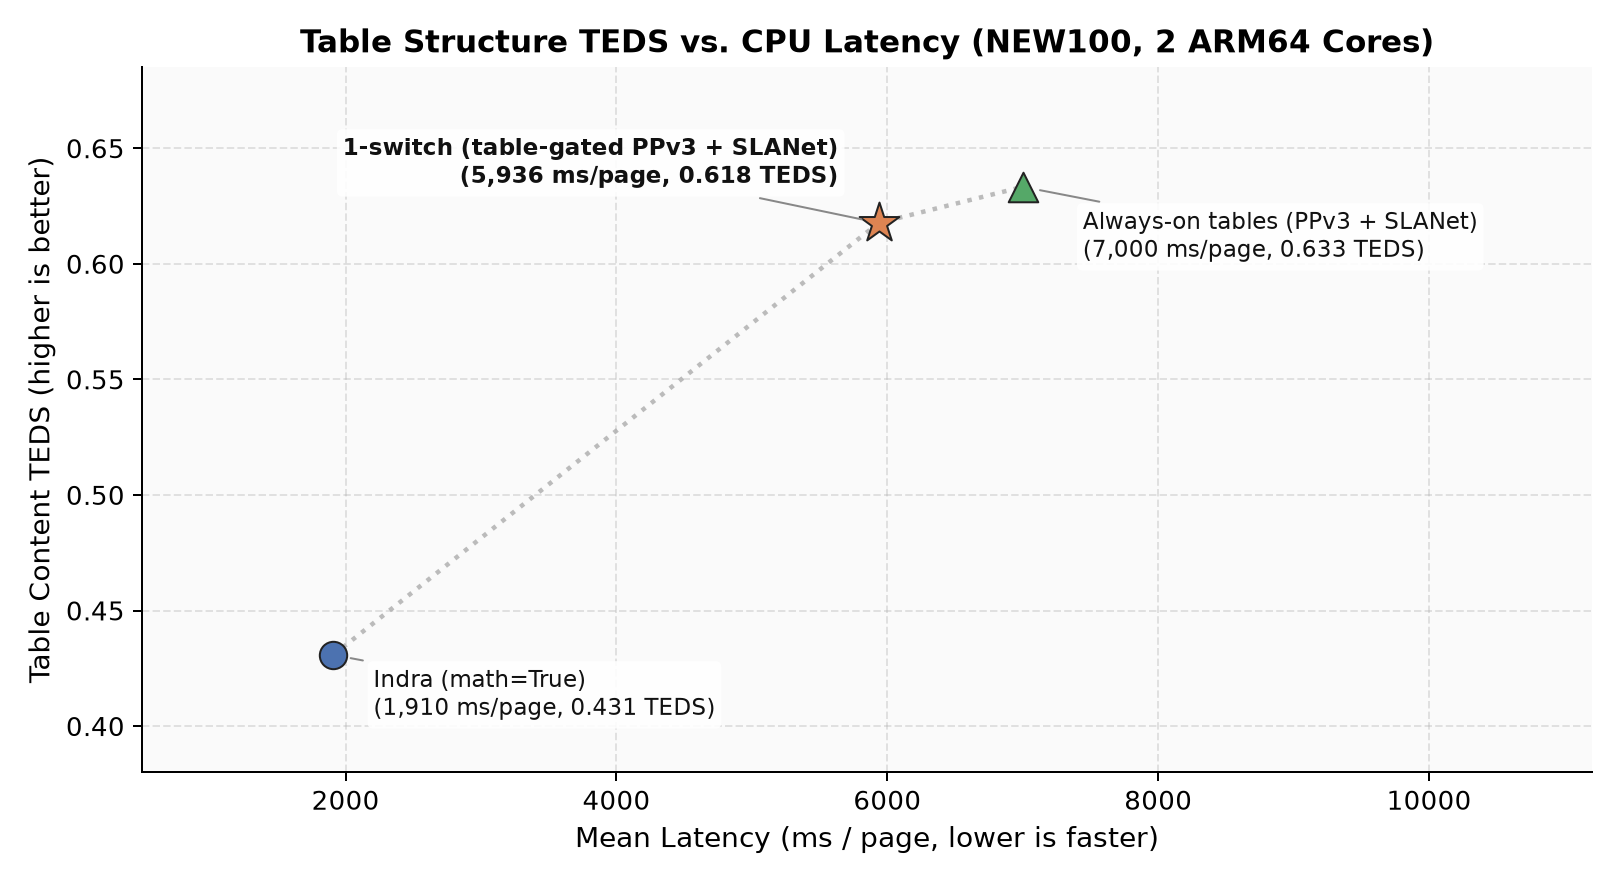
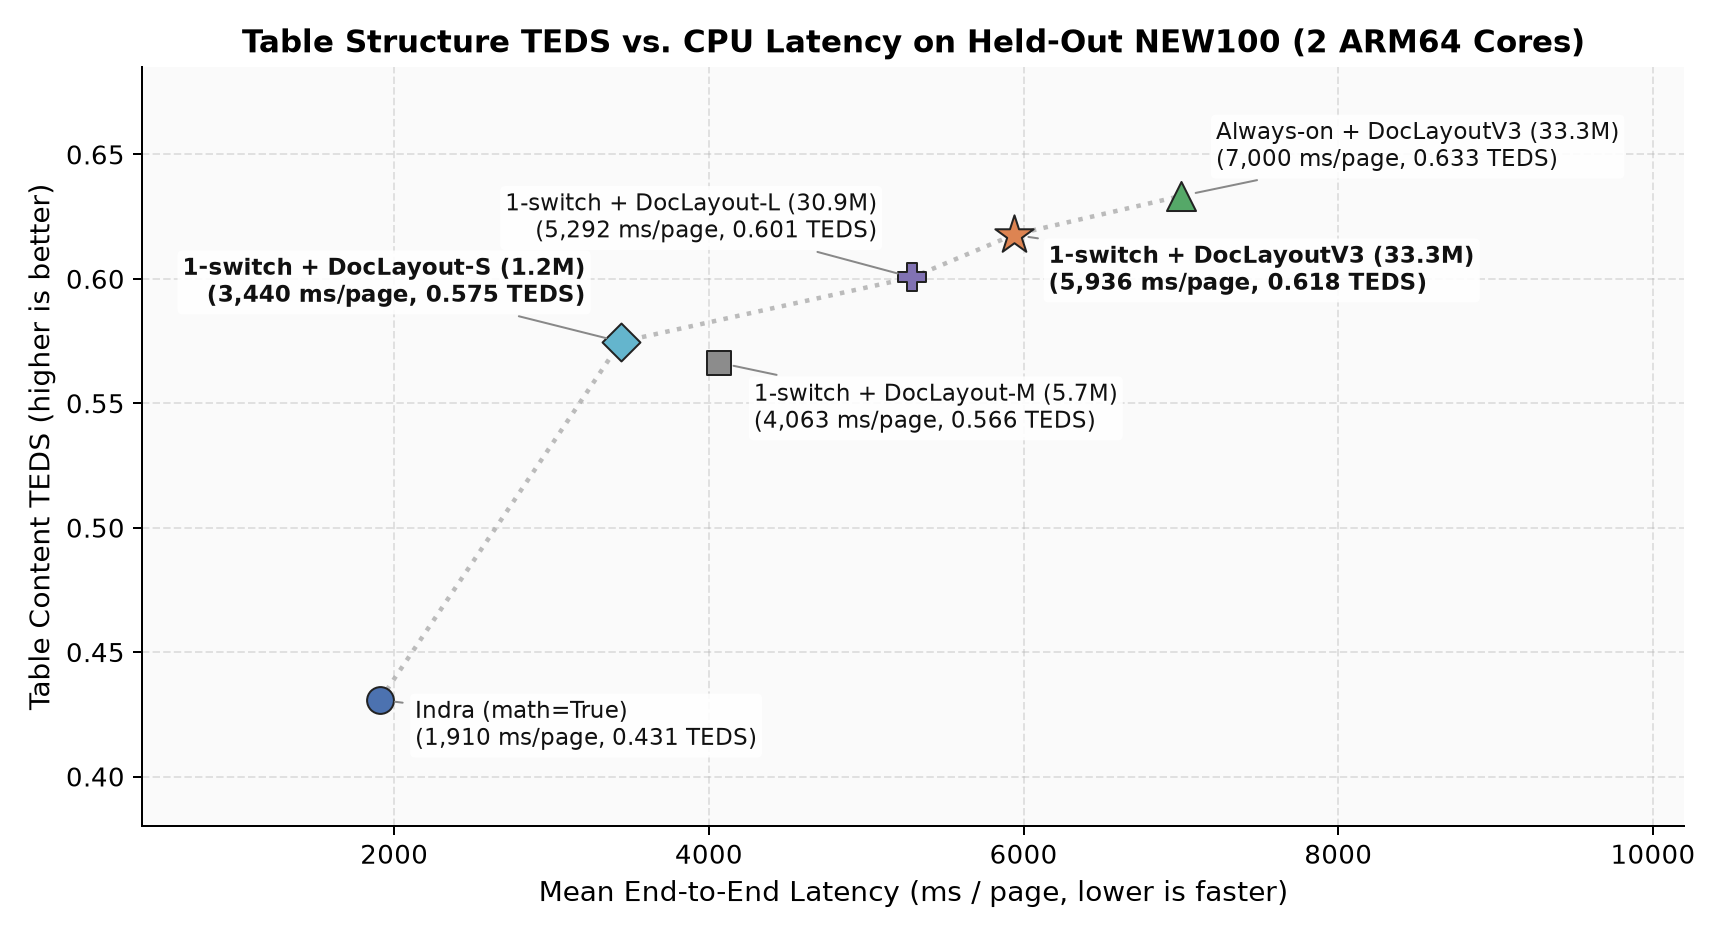
Add PP-DocLayout S/M/L benchmark results, --layout-model CLI, and updated Pareto chart

diff --git a/src/toaster_ocr/ppv3_layout.py b/src/toaster_ocr/ppv3_layout.py
@@ -276,3 +276,94 @@ class PPDocLayoutV3Detector:
                 }
             )
         return {"regions": regions, "inference_seconds": time.monotonic() - t0}
+
+
+class PaddleDocLayoutDetector:
+    """CPU detector wrapper for PaddlePaddle/PP-DocLayout-{S,M,L} via paddle.inference."""
+
+    def __init__(self, variant: str = "s", model_path: Path | None = None, threads: int = 2):
+        import cv2
+        import paddle.inference as pi
+        import yaml
+
+        v = variant.lower()
+        if v not in ("s", "m", "l"):
+            raise ValueError(f"Unknown PP-DocLayout variant {variant!r}; expected s, m, or l")
+        key = f"doclayout-{v}"
+        base = Path(model_path) if model_path else model_dir(key)
+        if not (base / "inference.json").exists():
+            raise FileNotFoundError(
+                f"PP-DocLayout-{v.upper()} missing in {base}. Run 'toaster-ocr download {key}'."
+            )
+        cv2.setNumThreads(1)
+        self.cv2 = cv2
+        yml = yaml.safe_load((base / "inference.yml").read_text())
+        self.labels = yml["label_list"]
+        self.th, self.tw = yml["Preprocess"][0]["target_size"]
+        norm = yml["Preprocess"][1]
+        self.mean = np.array(norm.get("mean", [0.0, 0.0, 0.0]), dtype=np.float32)
+        self.std = np.array(norm.get("std", [1.0, 1.0, 1.0]), dtype=np.float32)
+
+        t0 = time.monotonic()
+        cfg = pi.Config(str(base / "inference.json"), str(base / "inference.pdiparams"))
+        cfg.disable_gpu()
+        cfg.set_cpu_math_library_num_threads(threads)
+        cfg.switch_ir_optim(False)
+        cfg.disable_glog_info()
+        self.pred = pi.create_predictor(cfg)
+        self.load_seconds = time.monotonic() - t0
+
+    def detect(self, image_path: str | Path, width: int, height: int) -> dict[str, Any]:
+        t0 = time.monotonic()
+        bgr = self.cv2.imread(str(image_path))
+        if bgr is None:
+            raise ValueError(f"Could not read image: {image_path}")
+        rgb = bgr[:, :, ::-1]
+        h_img, w_img = rgb.shape[:2]
+        if (w_img, h_img) != (width, height):
+            raise ValueError(f"Dimension mismatch: image={(w_img, h_img)} vs expected={(width, height)}")
+        rs = (
+            self.cv2.resize(rgb, (self.tw, self.th), interpolation=self.cv2.INTER_CUBIC).astype(np.float32) / 255.0
+            - self.mean
+        ) / self.std
+        inp = rs.transpose(2, 0, 1)[None]
+        sf = np.array([[self.th / float(h_img), self.tw / float(w_img)]], dtype=np.float32)
+        for name in self.pred.get_input_names():
+            h = self.pred.get_input_handle(name)
+            if name == "image":
+                h.reshape(inp.shape)
+                h.copy_from_cpu(inp)
+            elif name == "scale_factor":
+                h.reshape(sf.shape)
+                h.copy_from_cpu(sf)
+            elif name == "im_shape":
+                ims = np.array([[float(self.th), float(self.tw)]], dtype=np.float32)
+                h.reshape(ims.shape)
+                h.copy_from_cpu(ims)
+        self.pred.run()
+        boxes = self.pred.get_output_handle(self.pred.get_output_names()[0]).copy_to_cpu()
+        regions = []
+        for i, b in enumerate(boxes):
+            cid = int(b[0])
+            score = float(b[1])
+            if cid < 0 or score < 0.5:
+                continue
+            box = [
+                max(0.0, min(float(w_img), float(b[2]))),
+                max(0.0, min(float(h_img), float(b[3]))),
+                max(0.0, min(float(w_img), float(b[4]))),
+                max(0.0, min(float(h_img), float(b[5]))),
+            ]
+            if not _valid_box(box):
+                continue
+            regions.append(
+                {
+                    "box_xyxy": box,
+                    "score": score,
+                    "label_id": cid,
+                    "raw_label": self.labels[cid],
+                    "order_seq": i,
+                    "service_order": i,
+                }
+            )
+        return {"regions": regions, "inference_seconds": time.monotonic() - t0}

diff --git a/src/toaster_ocr/pipeline.py b/src/toaster_ocr/pipeline.py
@@ -12,10 +12,11 @@ from pathlib import Path
 from typing import Any
 
 from .indra_engine import DEFAULT_PPV6_CONF_THRESHOLD, IndraEngine
-from .ppv3_layout import PPDocLayoutV3Detector, regroup
+from .ppv3_layout import PPDocLayoutV3Detector, PaddleDocLayoutDetector, regroup
 from .slanet_tables import SLANetTables
 
 MODES = ("indra", "indra-pp", "pp-v6", "pp-v6-full")
+LAYOUT_MODELS = ("v3", "l", "m", "s")
 
 
 class _JsonWorker:
@@ -99,11 +100,14 @@ for line in sys.stdin:
 class ToasterOCR:
     """Lazy-loading orchestrator for CPU-first small OCR specialist modes."""
 
-    def __init__(self, threads: int = 2):
+    def __init__(self, threads: int = 2, layout_model: str = "v3"):
+        if layout_model not in LAYOUT_MODELS:
+            raise ValueError(f"Unknown layout_model {layout_model!r}; expected one of {LAYOUT_MODELS}")
         self.threads = threads
+        self.layout_model = layout_model
         self.lock = threading.Lock()
         self._indra: IndraEngine | None = None
-        self._ppv3: PPDocLayoutV3Detector | _JsonWorker | None = None
+        self._ppv3: PPDocLayoutV3Detector | PaddleDocLayoutDetector | _JsonWorker | None = None
         self._slanet: SLANetTables | _JsonWorker | None = None
 
     def _get_indra(self) -> IndraEngine:
@@ -113,8 +117,11 @@ class ToasterOCR:
 
     def _detect_ppv3(self, image_path: str, width: int, height: int) -> dict[str, Any]:
         if self._ppv3 is None:
-            py = os.environ.get("TOASTER_OCR_PPV3_PYTHON")
-            self._ppv3 = _JsonWorker(py, _PPV3_WORKER_CODE, self.threads) if py else PPDocLayoutV3Detector(threads=self.threads)
+            if self.layout_model == "v3":
+                py = os.environ.get("TOASTER_OCR_PPV3_PYTHON")
+                self._ppv3 = _JsonWorker(py, _PPV3_WORKER_CODE, self.threads) if py else PPDocLayoutV3Detector(threads=self.threads)
+            else:
+                self._ppv3 = PaddleDocLayoutDetector(variant=self.layout_model, threads=self.threads)
         if isinstance(self._ppv3, _JsonWorker):
             return self._ppv3.call({"image_path": image_path, "width": width, "height": height})
         return self._ppv3.detect(image_path, width, height)

diff --git a/src/toaster_ocr/cli.py b/src/toaster_ocr/cli.py
@@ -8,7 +8,7 @@ import sys
 
 from .download import download_models
 from .paths import MODEL_SPECS
-from .pipeline import MODES, ToasterOCR
+from .pipeline import LAYOUT_MODELS, MODES, ToasterOCR
 from .server import serve
 
 
@@ -21,7 +21,8 @@ def main(argv: list[str] | None = None) -> int:
 
     rn = sub.add_parser("run", help="Run OCR on a local image and print markdown or JSON")
     rn.add_argument("image", help="Input PNG/JPEG/WebP path")
-    rn.add_argument("--mode", choices=MODES, default="pp-v6")
+    rn.add_argument("--mode", choices=MODES, default="indra-pp")
+    rn.add_argument("--layout-model", choices=LAYOUT_MODELS, default="v3", help="Table detector: v3 (33.3M), l (30.9M), m (5.7M), or s (1.2M)")
     rn.add_argument("--no-math", action="store_true", help="Disable Indra LaTeX math reader")
     rn.add_argument("--ppv6-threshold", type=float, default=None, help="Confidence threshold (default 0.96, 1.0=all lines)")
     rn.add_argument("--always-layout", action="store_true", help="Run PP-DocLayoutV3+SLANet even if Indra sees no Table")
@@ -40,7 +41,7 @@ def main(argv: list[str] | None = None) -> int:
         print(json.dumps({k: str(v) for k, v in res.items()}, indent=2))
         return 0
     if args.cmd == "run":
-        ocr = ToasterOCR(threads=args.threads)
+        ocr = ToasterOCR(threads=args.threads, layout_model=args.layout_model)
         try:
             res = ocr.run_image(
                 args.image,

diff --git a/src/toaster_ocr/paths.py b/src/toaster_ocr/paths.py
@@ -23,6 +23,24 @@ MODEL_SPECS = {
         "subdir": "ppv3",
         "env": "TOASTER_OCR_PPV3_DIR",
     },
+    "doclayout-s": {
+        "repo_id": "PaddlePaddle/PP-DocLayout-S",
+        "revision": "8ac289e66598f9106822f1f1bdbe1e956760c537",
+        "subdir": "doclayout-s",
+        "env": "TOASTER_OCR_DOCLAYOUT_S_DIR",
+    },
+    "doclayout-m": {
+        "repo_id": "PaddlePaddle/PP-DocLayout-M",
+        "revision": "7dbfcce315e15c67acbb4fd263560b16aa6bdbe7",
+        "subdir": "doclayout-m",
+        "env": "TOASTER_OCR_DOCLAYOUT_M_DIR",
+    },
+    "doclayout-l": {
+        "repo_id": "PaddlePaddle/PP-DocLayout-L",
+        "revision": "ca760c33368fd02dc3061f5217caabff83db9283",
+        "subdir": "doclayout-l",
+        "env": "TOASTER_OCR_DOCLAYOUT_L_DIR",
+    },
     "slanet": {
         "repo_id": "dimtri009/SLANet-1M",
         "revision": "a8ea21bf31cebc0f04909ede8517e3029c32f19b",

diff --git a/README.md b/README.md
@@ -2,13 +2,17 @@
 
 Fast, CPU-only document OCR for low-power hardware (no GPU, no large VLM).
 
-Indra is already fast on CPU (~1.9 s/page on 2 ARM64 cores) and handles prose, reading order, and LaTeX math (`math=True`) well, **but** table structure was a major weak spot. `toaster-ocr` adds a lightweight `PP-DocLayoutV3 + SLANet-1M` table pipeline behind a simple page-level switch (`1-switch`), giving three clean speed/quality options:
+Indra is already fast on CPU (~1.9 s/page on 2 ARM64 cores) and handles prose, reading order, and LaTeX math (`math=True`) well, **but** table structure was a major weak spot (`0.431` TEDS).
 
-1. **`indra` (`--mode indra`):** Native Indra (`math=True`) only. Fastest (~1.9 s/page), no extra layout/table models.
-2. **`1-switch` (`--mode indra-pp`):** Run Indra first, and only run `PP-DocLayoutV3` + `SLANet-1M` on pages where Indra detects a table. Prose/math pages stay ~1.9 s/page; table pages get full HTML structure repair (+18.7 TEDS overall).
-3. **`Always-on tables` (`--mode indra-pp --always-layout`):** Always run `PP-DocLayoutV3` + `SLANet-1M` on every page regardless, catching rare tables that Indra missed (+20.3 TEDS overall).
+`toaster-ocr` pairs Indra + `SLANet-1M` with your choice of `PP-DocLayout` detector (`S`, `M`, `L`, or `V3`) behind a simple page-level switch (`1-switch`): run Indra first, and only run the layout detector + `SLANet-1M` when Indra detects a table:
 
-![Table TEDS vs CPU latency across the 3 options on NEW100](benchmarks/pareto.png)
+1. **`indra` (`--mode indra`):** Native Indra (`math=True`) only (~1.9 s/page).
+2. **`1-switch + DocLayout-S` (`--mode indra-pp --layout-model s`, 1.2M params, 5.2 MB):** Detector takes only **411 ms/page** (9.3x faster than `V3`), lifting Table TEDS from `0.431` to **`0.575`** (+14.4 pts) at **`3.44 s/page`** mean (`3.05 s` median).
+3. **`1-switch + DocLayout-L` (`--mode indra-pp --layout-model l`, 30.9M params):** **`0.601` TEDS** (+17.0 pts) and **`0.248` Order ED** at **`5.29 s/page`**.
+4. **`1-switch + DocLayoutV3` (`--mode indra-pp --layout-model v3`, 33.3M params):** **`0.618` TEDS** (+18.7 pts) at **`5.94 s/page`** on table-heavy `NEW100` (`4.12 s/page` mean / `3.31 s` median on `OLM24`).
+5. **`Always-on + DocLayoutV3` (`--mode indra-pp --always-layout`):** Runs `PP-DocLayoutV3` on every page to catch rare tables Indra missed (**`0.633` TEDS** at **`7.00 s/page`**).
+
+![Table TEDS vs CPU latency across PP-DocLayout S/M/L/V3 on NEW100](benchmarks/pareto.png)
 
 ---
 
@@ -24,24 +28,29 @@ Measured on CPUs `0,1` (`taskset -c 0,1 nice -n 10`, 2 intra-op threads, serial 
 
 ### 1. Held-out OmniDocBench (`NEW100`: 100 unseen pages, 60% table / 40% control, 50 EN / 50 ZH)
 
-| Option | Layout run on | Mean / page (median) | Table TEDS (higher is better) | TEDS struct-only (higher is better) | Text ED page avg (lower is better) | Order ED (lower is better) |
-|---|---:|---:|---:|---:|---:|---:|
-| **`indra`** (`math=True`) | `0%` | **1.91 s** (`1.63 s`) | `0.4308` | `0.6023` | `0.1329` | `0.2978` |
-| **`1-switch`** (`indra-pp`, tables only) | **72%** | **5.94 s** (`6.24 s`) | **`0.6177`** | **`0.7736`** | **`0.1317`** | **`0.2722`** |
-| **`Always-on tables`** (`--always-layout`) | `100%` | **7.00 s** (`6.43 s`) | **`0.6333`** | **`0.7892`** | **`0.1317`** | **`0.2722`** |
+| Configuration | Detector params | Detector alone (mean / med) | Layout run on | Total / page (mean / med) | Table TEDS (higher is better) | TEDS struct-only (higher is better) | Text ED page avg (lower is better) | Order ED (lower is better) |
+|---|---:|---:|---:|---:|---:|---:|---:|---:|
+| **`indra`** (`math=True`) | `0` | `0 ms` | `0%` | **1.91 s** (`1.63 s`) | `0.4308` | `0.6023` | `0.1329` | `0.2978` |
+| **`1-switch + DocLayout-S`** | **1.21M** (5.2 MB) | **411 ms** (`361 ms`) | **72%** | **3.44 s** (`3.05 s`) | **`0.5747`** | `0.7491` | `0.1321` | `0.2839` |
+| **`Always-on + DocLayout-S`** | 1.21M | `411 ms` (`361 ms`) | `100%` | `3.58 s` (`3.12 s`) | `0.5799` | `0.7543` | `0.1411` | `0.2941` |
+| **`1-switch + DocLayout-M`** | 5.65M (23.8 MB) | `1,224 ms` (`1,172 ms`) | `72%` | `4.06 s` (`3.71 s`) | `0.5663` | `0.7399` | `0.1489` | `0.2898` |
+| **`1-switch + DocLayout-L`** | **30.94M** (130 MB) | `2,923 ms` (`2,880 ms`) | **72%** | **5.29 s** (`5.49 s`) | **`0.6006`** | `0.7625` | `0.1321` | **`0.2479`** |
+| **`Always-on + DocLayout-L`** | 30.94M | `2,923 ms` (`2,880 ms`) | `100%` | `6.12 s` (`5.67 s`) | `0.6058` | `0.7677` | `0.1321` | `0.2479` |
+| **`1-switch + DocLayoutV3`** | **33.29M** (133 MB) | `3,807 ms` (`3,690 ms`) | **72%** | **5.94 s** (`6.24 s`) | **`0.6177`** | `0.7736` | **`0.1317`** | `0.2722` |
+| **`Always-on + DocLayoutV3`** | 33.29M | `3,807 ms` (`3,690 ms`) | `100%` | **7.00 s** (`6.43 s`) | **`0.6333`** | **`0.7892`** | **`0.1317`** | `0.2722` |
 
-*(Note: `NEW100` was deliberately oversampled to 60% table pages, so 72/100 pages trigger layout. On the 28 skipped pages, `PP-DocLayoutV3` caught 2 edge-case tables: a tiny 2x2 exam stamp box and a formula-heavy uncertainty table. That explains `0.6177` vs `0.6333` TEDS, with zero change to text or reading order.)*
+#### Key findings across `S`, `M`, `L`, and `V3`
+- **`PP-DocLayout-S` (`1.21M`) beats `M` (`5.65M`) in both speed and accuracy:** `S` runs its detector in **411 ms** (`3.0x` faster than `M`'s `1,224 ms`) and scores higher on Table TEDS (`0.5747` vs `0.5663`) and Text ED (`0.1321` vs `0.1489`).
+- **Why `1-switch` helps `DocLayout-S` on text:** When `DocLayout-S` runs on every page (`Always-on`), it occasionally predicts a false-positive table box on plain prose (`0.1411` Text ED); gating it with `1-switch` (`has_indra_table`) eliminates those false positives (`0.1321` Text ED).
+- **Smooth Pareto frontier:** `Indra` (`1.91s, 0.431`) -> `S 1-switch` (`3.44s, 0.575`) -> `L 1-switch` (`5.29s, 0.601`) -> `V3 1-switch` (`5.94s, 0.618`) -> `V3 Always-on` (`7.00s, 0.633`).
 
 ### 2. olmOCR-bench Stratified Pilot (`OLM24`: 24 pages, 188 official unit tests)
 
 | Option | Layout run on | Mean / page (median) | Overall pass rate (higher is better) | `long_tiny_text` | `multi_column` | `table_tests` | `headers_footers` | `arxiv_math` | `old_scans` | `old_scans_math` |
 |---|---:|---:|---:|---:|---:|---:|---:|---:|---:|---:|
 | **`indra`** (`math=True`) | `0%` | **2.25 s** (`1.70 s`) | `34.57%` (`65/188`) | `88.9%` | `84.6%` | `72.0%` | `31.3%` | `20.8%` | `4.2%` | `1.7%` |
-| **`1-switch`** (`indra-pp`) | **37.5%** | **4.12 s** (**`3.31 s`**) | **`35.64%`** (`67/188`) | `88.9%` | **`92.3%`** | **`76.0%`** | `31.3%` | `20.8%` | `4.2%` | `1.7%` |
-| **`Always-on tables`** (`--always-layout`) | `100%` | **6.68 s** (`5.95 s`) | **`35.64%`** (`67/188`) | `88.9%` | **`92.3%`** | **`76.0%`** | `31.3%` | `20.8%` | `4.2%` | `1.7%` |
-
-- On `OLM24` (where 62.5% of pages have no tables), **`1-switch`** skips `PPv3 + SLANet` on `15/24` pages with **0 missed tables (`67/188 == 67/188`)**, cutting mean latency by **2.56 s/page** (`6.68 s -> 4.12 s`, median **`3.31 s`**).
-- *Per-stage timing across all 124 pages:* `PP-DocLayoutV3` ~3.81 s/page mean, `SLANet-1M` ~1.14 s/page mean (~0.97 s median on table pages).
+| **`1-switch + DocLayoutV3`** | **37.5%** | **4.12 s** (**`3.31 s`**) | **`35.64%`** (`67/188`) | `88.9%` | **`92.3%`** | **`76.0%`** | `31.3%` | `20.8%` | `4.2%` | `1.7%` |
+| **`Always-on + DocLayoutV3`** | `100%` | **6.68 s** (`5.95 s`) | **`35.64%`** (`67/188`) | `88.9%` | **`92.3%`** | **`76.0%`** | `31.3%` | `20.8%` | `4.2%` | `1.7%` |
 
 ### Optional Chinese / CJK text switch (`--mode pp-v6`)
 We also tested routing low-confidence Indra lines (`conf <= 0.96`) to `PP-OCRv6_small_rec_onnx` (21.2 MB ONNX). On **English**, it added ~3 to 4 s/page for negligible gain (`0.1349 -> 0.1332` ED on `NEW100`; `66/188` vs `67/188` on `OLM24`), so it is **not** needed for English. On **Simplified Chinese** (`NEW100`, `n=48`), it cut Text ED from `0.1287` to `0.1098` (`25 wins / 1 loss`), so `--mode pp-v6` remains available if you process Chinese documents.
@@ -58,14 +67,15 @@ python3 -m venv .venv
 source .venv/bin/activate
 pip install -e ".[all]"
 ```
-*(If `paddlepaddle` / `torch` must live in separate venvs on your platform, install base `pip install -e .` and point `TOASTER_OCR_PPV3_PYTHON` / `TOASTER_OCR_SLANET_PYTHON` at those Python executables.)*
 
 ### 2. Download pinned upstream models
 No model weights are bundled in this repo. Fetch pinned revisions into `~/.cache/toaster-ocr` (override with `TOASTER_OCR_HOME`):
 ```bash
-toaster-ocr download indra ppv3 slanet
-# Optional if you also want --mode pp-v6 for Chinese documents:
-# toaster-ocr download ppocrv6
+# Fast 5 MB layout detector (PP-DocLayout-S) + Indra + SLANet:
+toaster-ocr download indra doclayout-s slanet
+
+# Or download PP-DocLayoutV3 / L:
+toaster-ocr download ppv3 doclayout-l
 ```
 
 ### 3. Run OCR on an image
@@ -73,11 +83,14 @@ toaster-ocr download indra ppv3 slanet
 # Fast native Indra only (~1.9s/page)
 toaster-ocr run page.png --mode indra
 
-# 1-switch (recommended): runs PP-DocLayoutV3 + SLANet only when Indra spots a table
-toaster-ocr run page.png --mode indra-pp
+# 1-switch with ultra-fast PP-DocLayout-S (~3.4s/page, 0.575 TEDS)
+toaster-ocr run page.png --mode indra-pp --layout-model s
 
-# Always-on tables: run PP-DocLayoutV3 + SLANet on every page
-toaster-ocr run page.png --mode indra-pp --always-layout
+# 1-switch with PP-DocLayoutV3 (~5.9s/page on table-heavy docs, 0.618 TEDS)
+toaster-ocr run page.png --mode indra-pp --layout-model v3
+
+# Always-on tables with PP-DocLayoutV3 (0.633 TEDS)
+toaster-ocr run page.png --mode indra-pp --layout-model v3 --always-layout
 ```
 
 ### 4. Start OpenAI-compatible HTTP server
